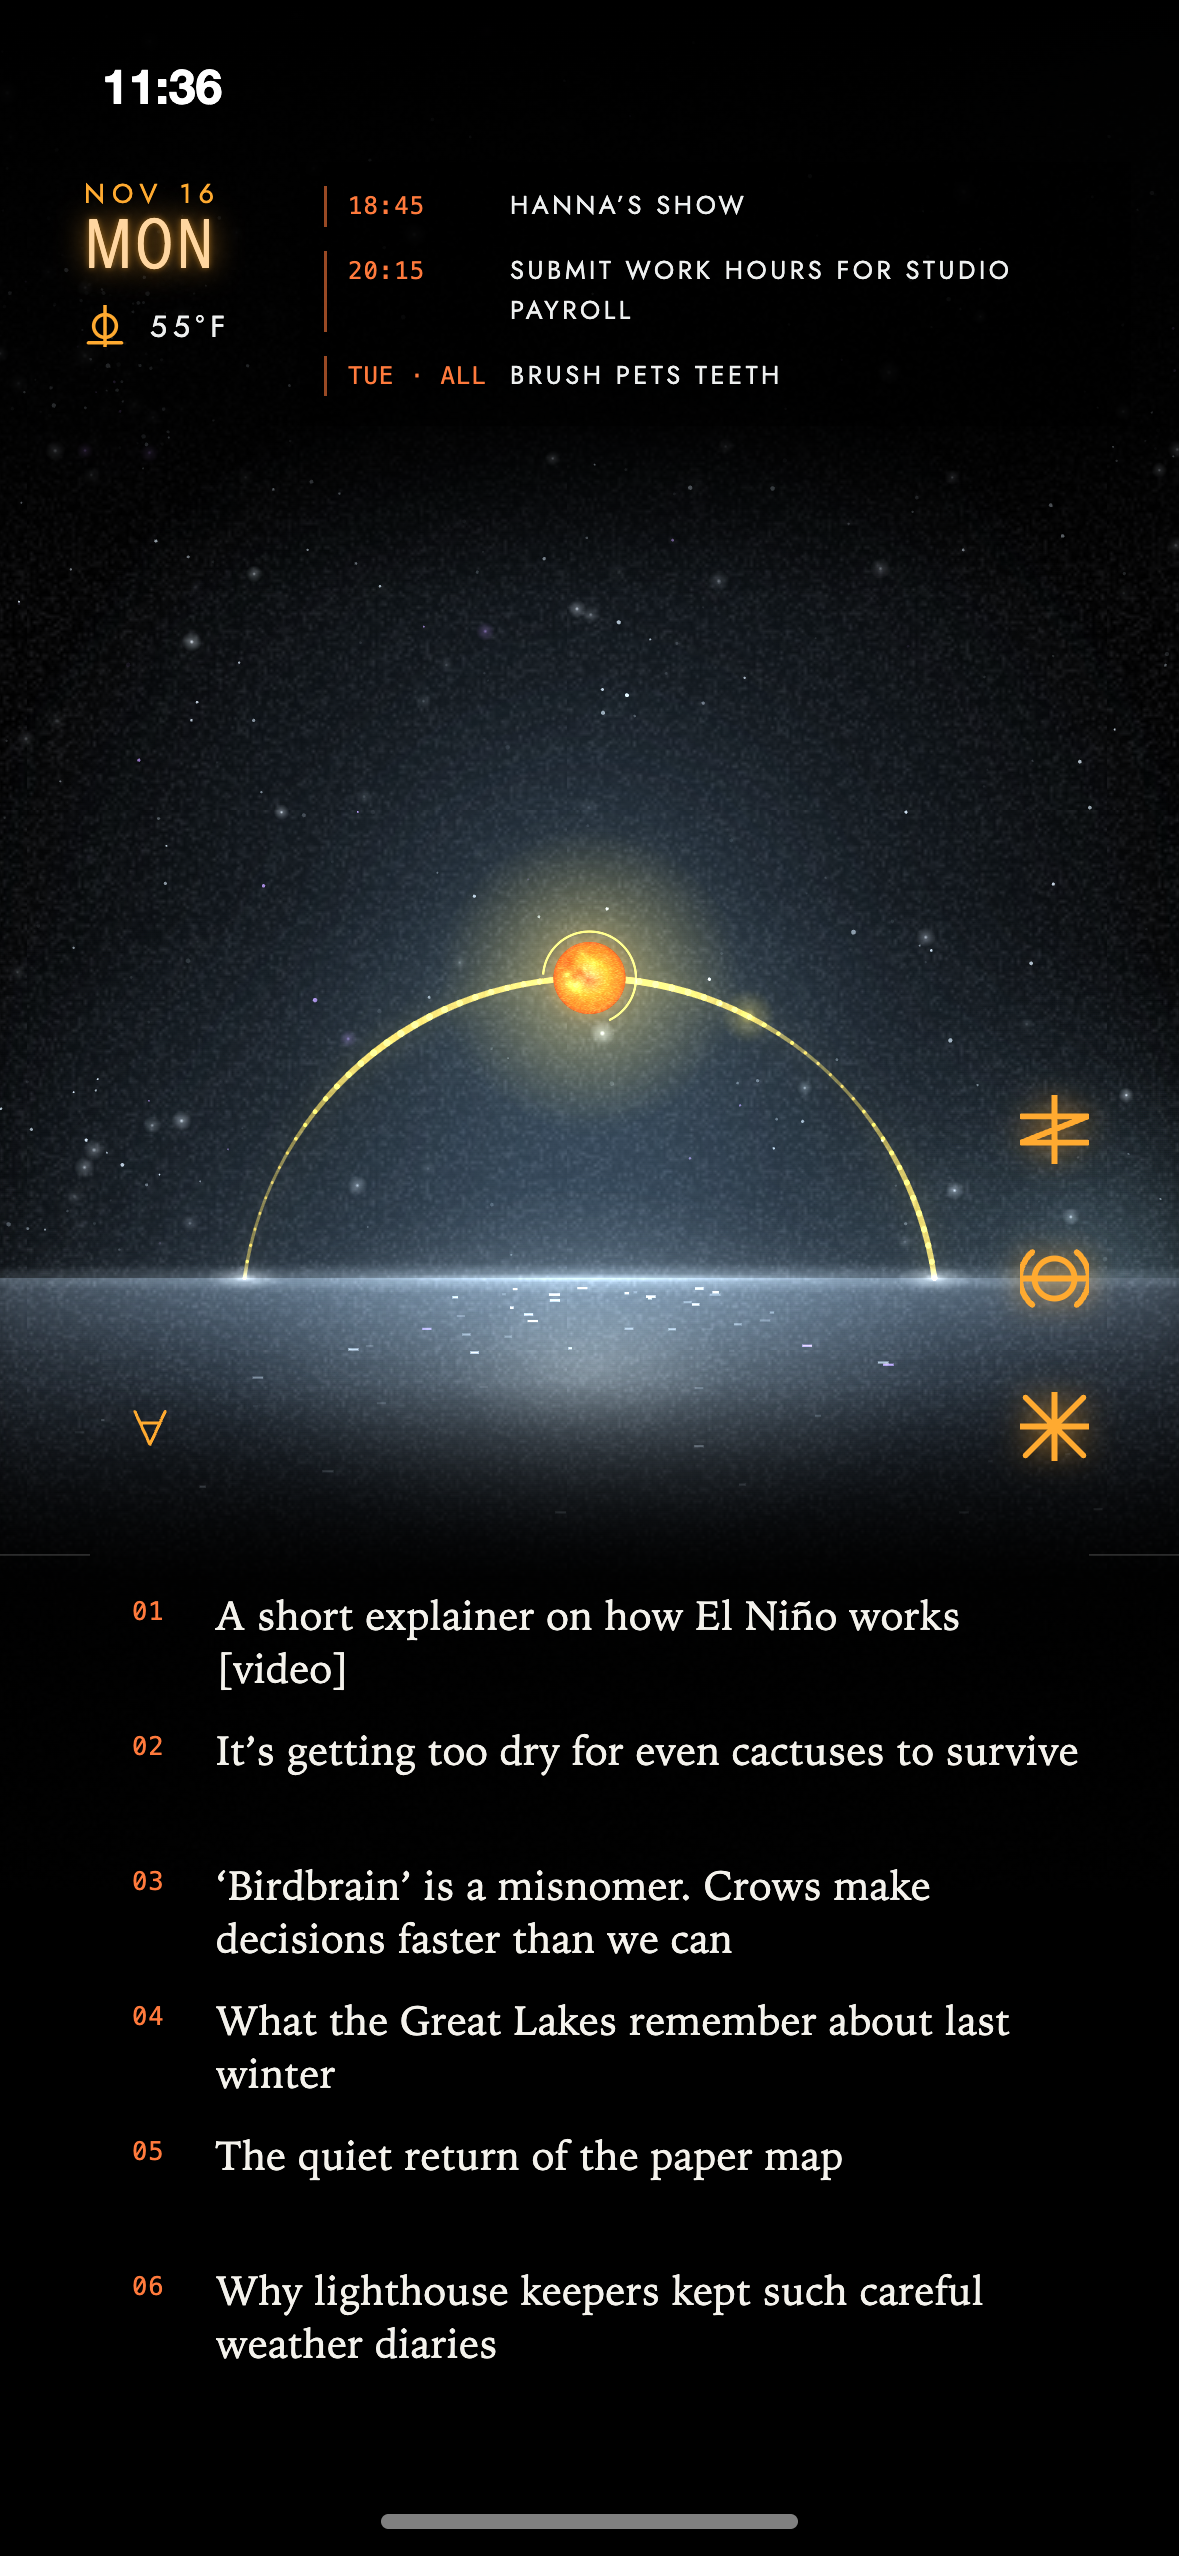
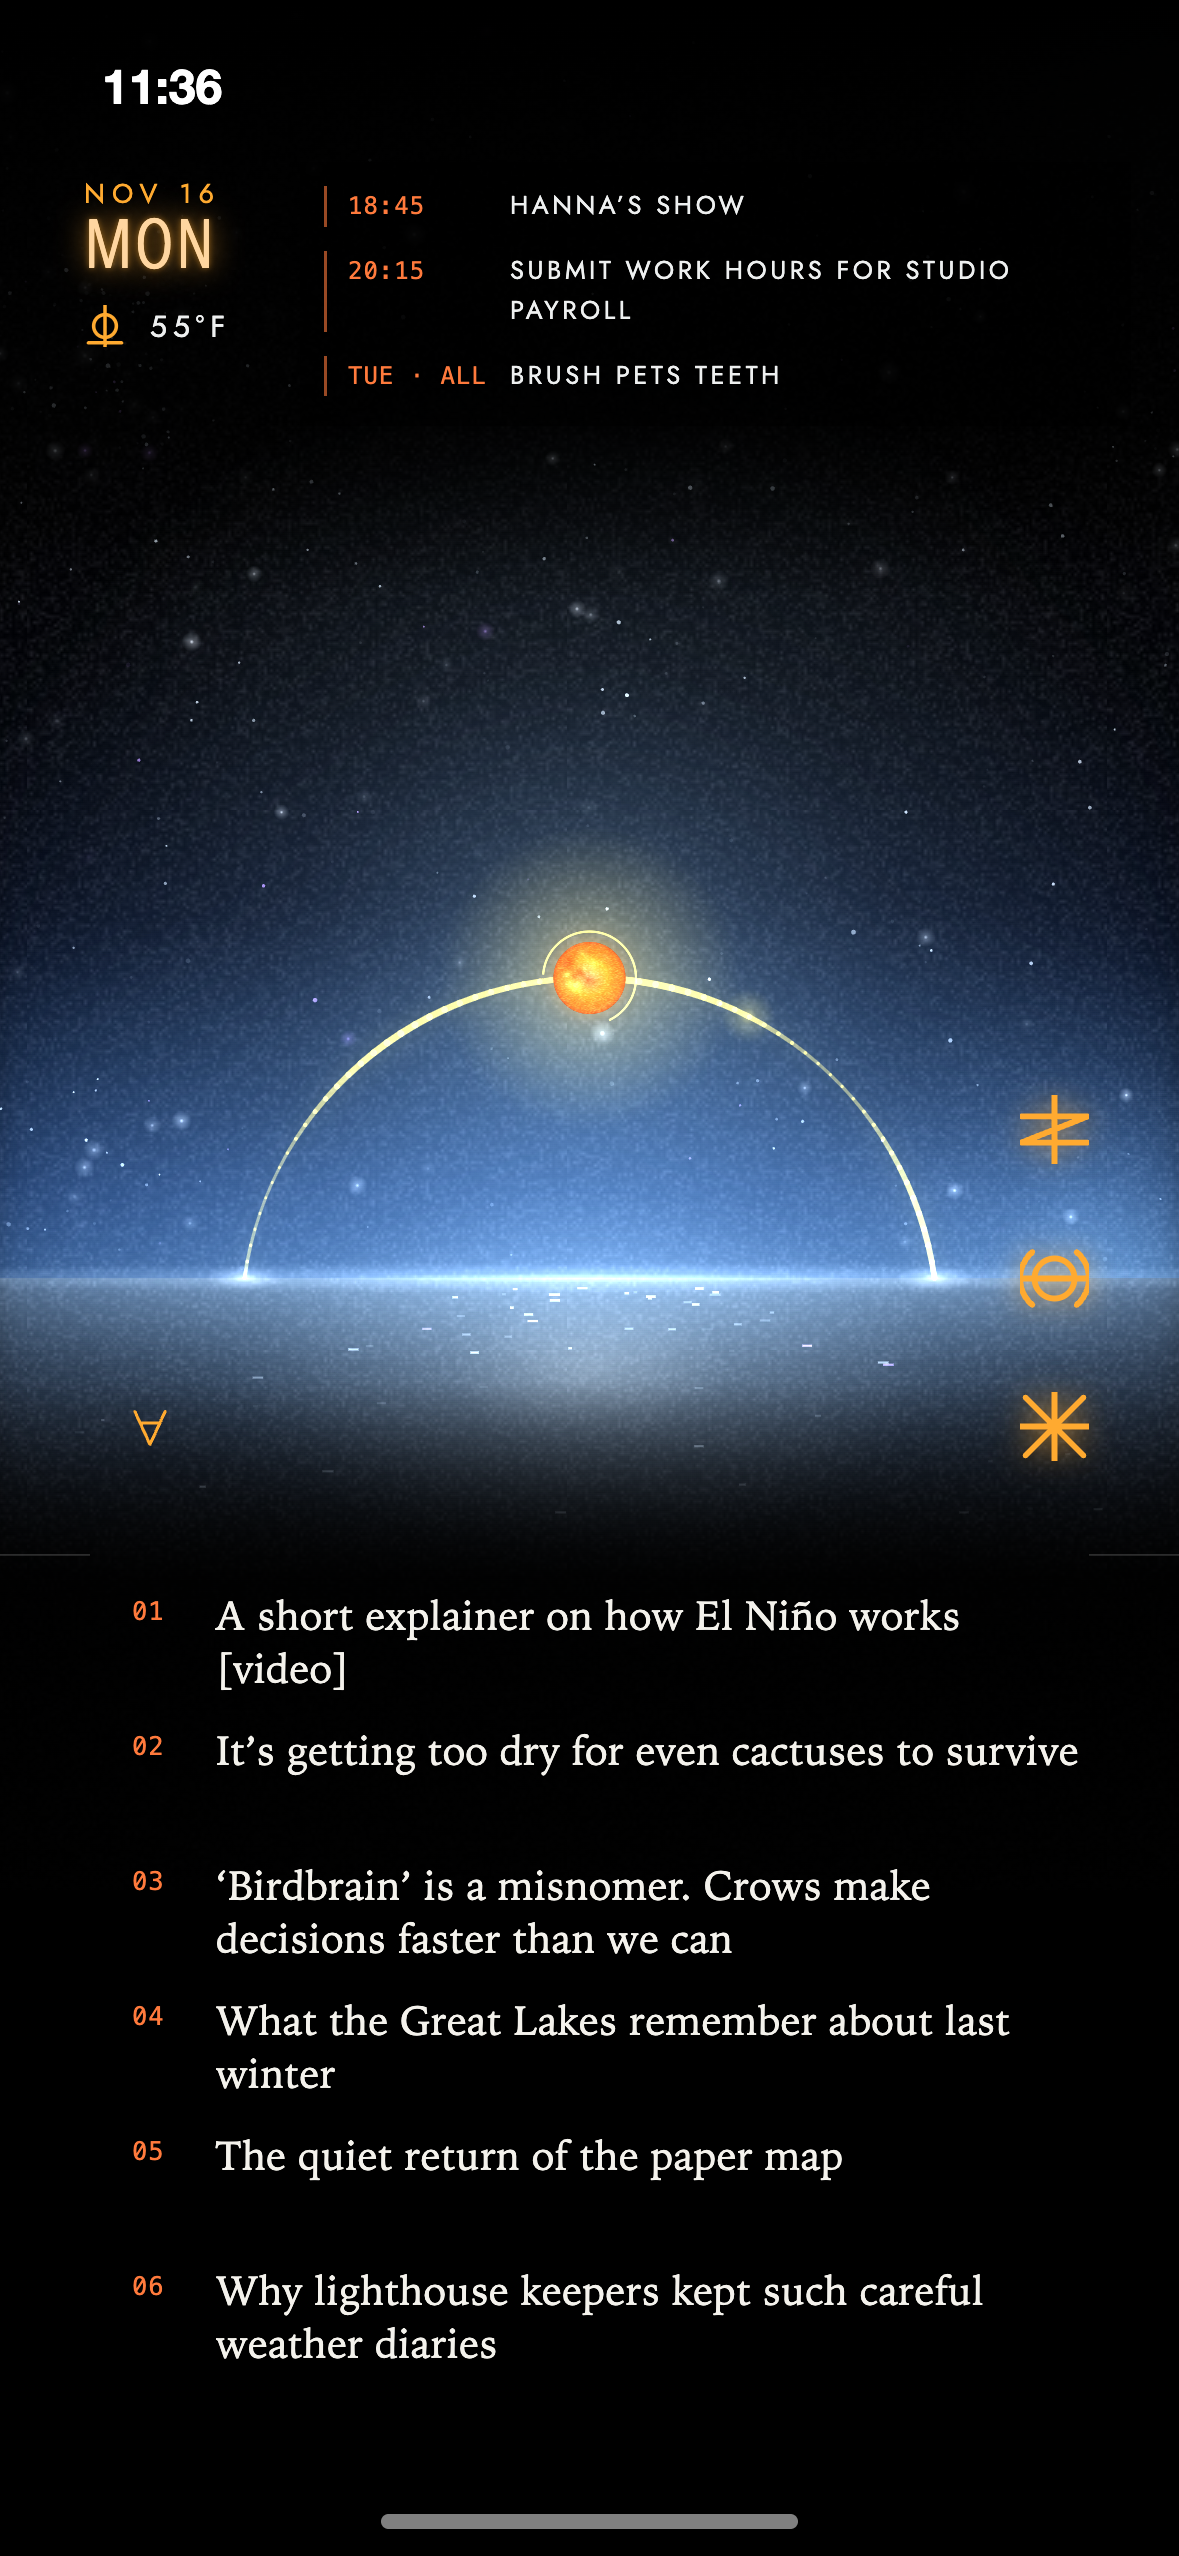
[#53] design-ideas/v7-firmament: heavier for-all button; blue daytime sky lightest at the horizon, fading to black above the path

Changed region(s): [[0.0, 0.34, 1.0, 0.5563]]

diff --git a/design-ideas/v7-firmament/index.html b/design-ideas/v7-firmament/index.html
@@ -50,7 +50,7 @@
   /* one column at the right: saved stays put, list sits centred on the horizon (y 426), settings the same step above */
   .icons { right: 30px; top: 365px; display: flex; flex-direction: column; gap: 26.5px; }
   .icons svg { width: 23px; height: 23px; filter: drop-shadow(0 0 5px rgba(var(--amber), .7)); }
-  .more { left: 44px; top: 470px; width: 12px; height: 12px; }
+  .more { left: 44px; top: 470px; width: 12px; height: 12px; stroke-width: .17; }
 
   .feed { left: 44px; top: 530px; width: 322px; margin: 0; padding: 0; list-style: none; font-size: 9.5px; letter-spacing: .2em; line-height: 14.5px; }
   .feed li { display: grid; grid-template-columns: 28px 1fr; height: 45px; }
@@ -217,6 +217,18 @@ function draw(t) {
   ctx.globalCompositeOperation = "source-over"; ctx.fillStyle = "#000"; ctx.fillRect(0, 0, W, H);
   ctx.globalCompositeOperation = "lighter"; ctx.lineCap = "butt";
 
+  /* ---- by day the sky is blue: lightest on the horizon, falling quickly to near black above the top of the path, so the words at the top stay on dark ---- */
+  if (!look.night) {
+    const k = (.45 + .55 * look.power) * .5, grey = state.rain ? .55 : state.clouds ? .25 : 0;              // duller and greyer under cloud
+    const blue = (r, g, b, a) => col([r, g, b].map(v => Math.round(v + ((r + g + b) / 3 - v) * grey)).join(","), a * k);
+    const sky = ctx.createLinearGradient(0, HZ, 0, HZ - 290);
+    sky.addColorStop(0, blue(70, 128, 214, .8)); sky.addColorStop(.1, blue(56, 110, 200, .68)); sky.addColorStop(.26, blue(40, 84, 160, .5));
+    sky.addColorStop(.42, blue(20, 48, 112, .32)); sky.addColorStop(.7, blue(8, 20, 56, .14)); sky.addColorStop(1, blue(4, 8, 24, 0));
+    ctx.fillStyle = sky; ctx.fillRect(0, HZ - 290, W, 290);
+    const wet = ctx.createLinearGradient(0, HZ, 0, HZ + 96);                                          // and the sea takes some of that blue
+    wet.addColorStop(0, blue(64, 112, 176, .42)); wet.addColorStop(1, blue(20, 40, 90, 0));
+    ctx.fillStyle = wet; ctx.fillRect(0, HZ, W, 96);
+  }
   /* ---- light in the sky: a wide haze round the sun or moon, and a low one along the horizon ---- */
   glow(bx, by, 210, 210, "70,96,120", .46 * (.5 + .5 * P), .5);
   glow(x, HZ, W * .95, 130, "70,96,120", .3 * (.5 + .5 * P), .5);

diff --git a/design-ideas/v7-firmament/README.md b/design-ideas/v7-firmament/README.md
@@ -9,9 +9,10 @@ Today as an open night-black sky over the sea. Built from `v6-hud2/` with the po
 - Kept from v6 unchanged: the sun's burning-gas face and the moon's craters and phases, the soft light and film grain, the straight horizon and sea glints, the button column at the right (moved up with the horizon, list still centred on it), the article titles (now six, in the larger sea), and warm accents by day with cool accents at night.
 - Header, upper left: month and day, then the day name in a light condensed face (Avenir Next Condensed, which ships with iOS and macOS; other systems fall back to Jost) scaled to be exactly as wide as the date, then the weather sign and temperature. The condition is not spelled out. The three events start just right of this narrow column and run to the right edge, so titles have about 215 points.
 - Article titles are set in a humanist serif, in sentence case and without letter-spacing (Iowan Old Style, then Charter; both ship with iOS and macOS). Event titles, like everything else, keep the spaced capitals in Jost.
-- The history button at the left below the horizon is `∀`, the maths sign for "all" (an upside-down A), in place of v6's `»`.
+- The history button at the left below the horizon is `∀`, the maths sign for "all" (an upside-down A), in place of v6's `»`, drawn twice as heavy as the other symbols.
+- By day the sky is blue: lightest along the horizon and falling quickly to near black a little above the top of the sun's path, so the header and events stay on dark. Stars stay visible through it. It is duller and greyer under cloud and rain. At night the sky is black as before.
 - `index.html` is the animated mockup. Open it in a browser (`open design-ideas/v7-firmament/index.html`) and pick a state, or step through with the arrow keys. `?state=<id>&bare&still&t=<seconds>` draws one frame.
 - `01-sunrise.png` … `12-moon-set.png` are stills of the same twelve states as `design-ideas/v1-original/`, at iPhone size.
 - `fonts/` holds a copy of the app's Jost font so the page works offline.
 
-Decided without being asked: the band of white light that sat inside the portal went with the portal; the arc is narrower than the screen so the setting sun clears the button column; the sea glints and the light on the water follow the sun or moon; the star field is new (spread over the whole sky), not v6's dust.
+Decided without being asked: the band of white light that sat inside the portal went with the portal; the arc is narrower than the screen so the setting sun clears the button column; the sea glints and the light on the water follow the sun or moon; by day the sea just under the horizon takes some of the sky's blue; the star field is new (spread over the whole sky), not v6's dust.

diff --git a/tasks/0053-design-ideas-v7-firmament-bolder-for-all.md b/tasks/0053-design-ideas-v7-firmament-bolder-for-all.md
@@ -1,0 +1,26 @@
+---
+id: 53
+title: design-ideas/v7-firmament: bolder for-all button; by day a lighter blue sky at the horizon fading to near black above the arc, stars still visible
+status: in-progress
+owner: lead
+depends_on: []
+created: 2026-11-17T15:40:31Z
+updated: 2026-11-17T15:40:31Z
+---
+
+## Goal
+
+
+## Acceptance criteria
+
+
+## Relevant files
+
+
+## What's been tried
+
+
+## Log
+
+- 2026-11-17T15:40:31Z [lead] created (todo)
+- 2026-11-17T15:40:31Z [lead] status: todo → in-progress — claimed by lead
